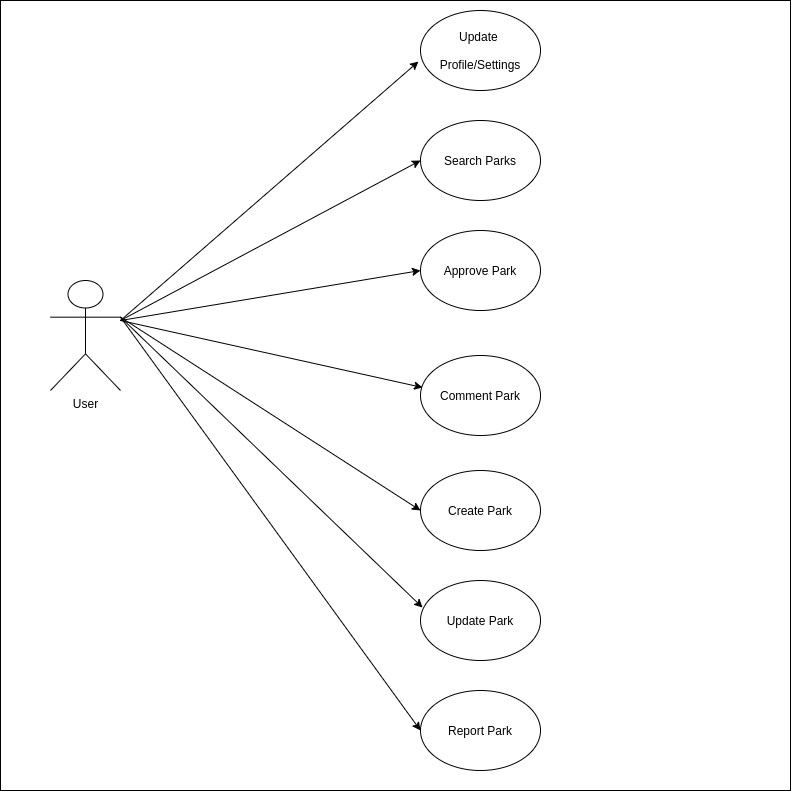
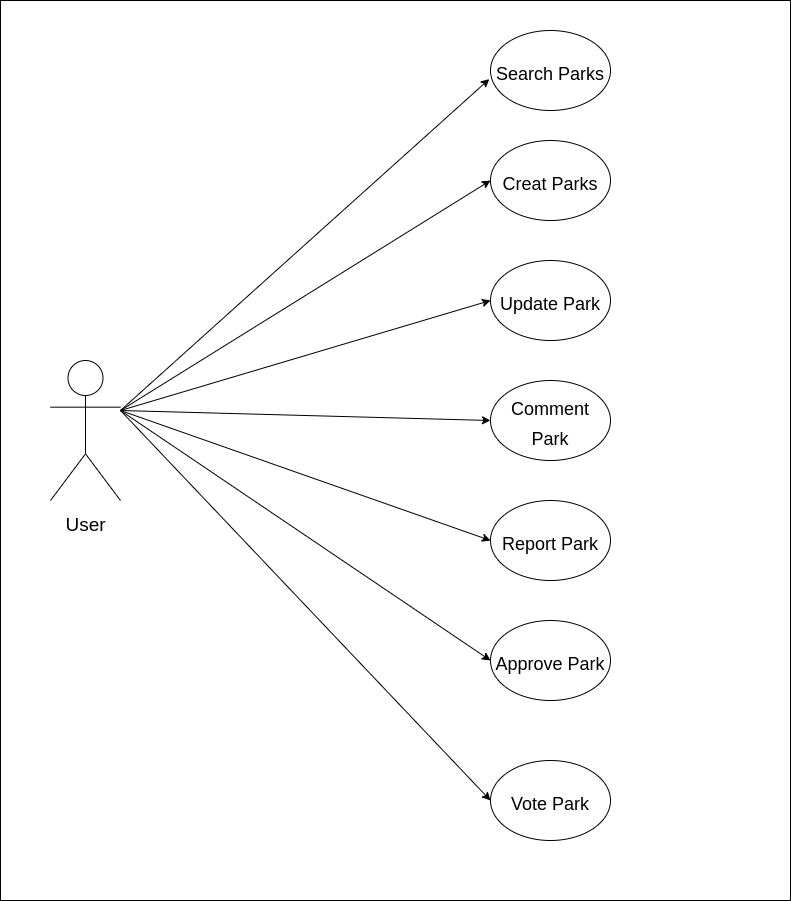
add readme functional and technical description

diff --git a/staff/lisandro-bertoli/sick-parks/sick-parks-app/src/components/TopSearch/styles.js b/staff/lisandro-bertoli/sick-parks/sick-parks-app/src/components/TopSearch/styles.js
@@ -17,7 +17,7 @@ const styles = StyleSheet.create({
         flex: 1,
         flexGrow: 1,
         paddingLeft: 10,
-        backgroundColor: '#EDF4F9',
+        backgroundColor: 'white',
         fontFamily: 'montserrat'
     },
     queryIcon: {

diff --git a/staff/lisandro-bertoli/sick-parks/sick-parks-doc/README.md b/staff/lisandro-bertoli/sick-parks/sick-parks-doc/README.md
@@ -8,11 +8,41 @@ The users will have the posibility of finding snowparks around the world. The pa
 
 ## Functional Description
 
+- App can be used by registered and non-registered users.
+
+- Non-registered users can search, and see the details page of a park.
+
+- The search can be done by the direct search options(latest parks, verified, begginer and xl) or by entering a query which can be empty or partially written.
+
+- The details page of a park gives users information about the location of the park the features it has and the votes and if the park is verified or not.
+
+- Registered users can:
+    - Create new parks with location and features.
+    - Comment them.
+    - Vote and approve or report the parks.
 
 ### Use Cases
 
+![](./images/use-cases.png)
+
+### Flow
+
+![](./images/flow.png)
+
 ## Technical Description
+
+### Blocks
+
+![](./images/block.png)
 
 ### Data Model
 
-![](/images/data-model.png)
+![](./images/data-model.png)
+
+### API Code Coverage
+
+![](./images/code-coverage-api.png)
+
+### Client Code Coverage
+
+![](./images/code-coverage-client.png)
